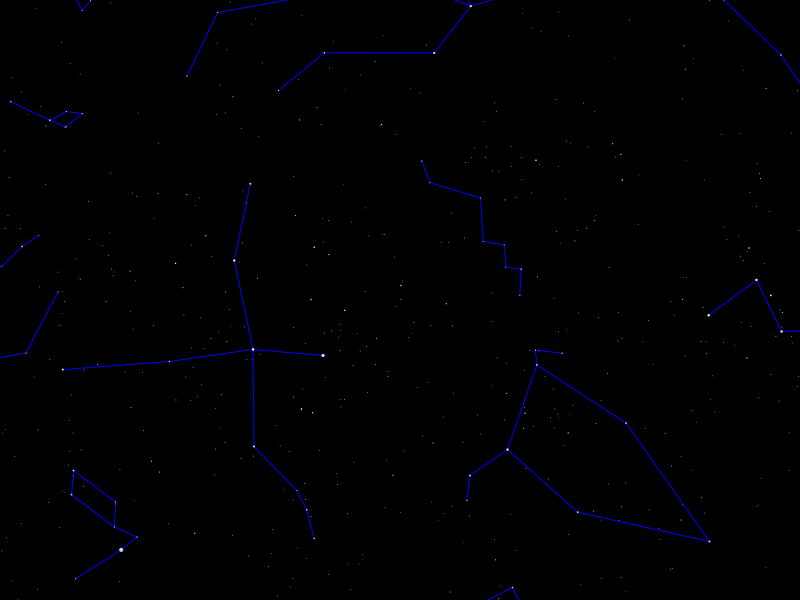
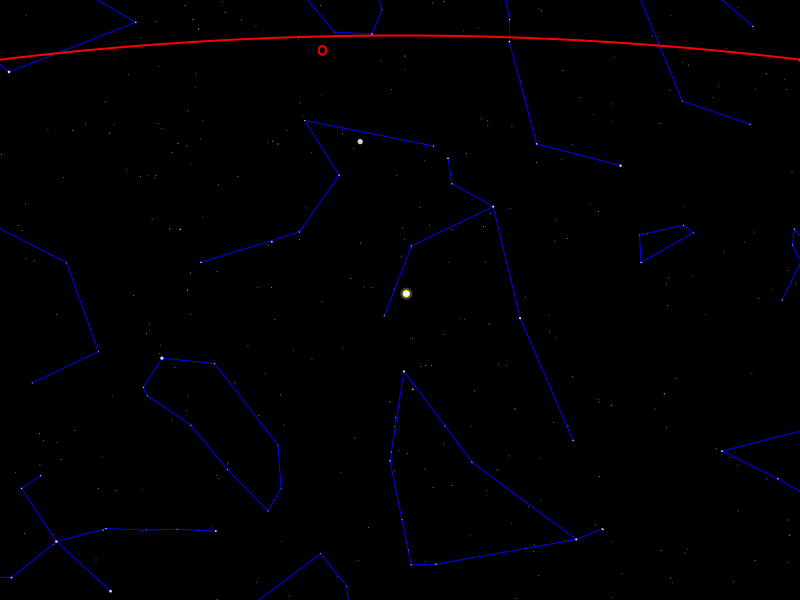
horizon and sun fixes

diff --git a/src/ch/epfl/rigel/gui/SkyCanvasPainter.java b/src/ch/epfl/rigel/gui/SkyCanvasPainter.java
@@ -140,7 +140,7 @@ public class SkyCanvasPainter {
         double radius = diameter/2;
 
         // yellow halo around the sun
-        double positionDifference = (2.2 * diameter - diameter) / 2d;
+        double positionDifference = (1.2 * diameter) / 2d;
         ctx.setFill(Color.YELLOW.deriveColor(0, 0, 1, 0.25));
         ctx.fillOval(pos.getX() - positionDifference - radius, pos.getY() - positionDifference - radius, 2.2 * diameter, 2.2 * diameter);
 
@@ -177,7 +177,7 @@ public class SkyCanvasPainter {
         CartesianCoordinates center = projection.circleCenterForParallel(HorizontalCoordinates.of(0, 0));
         Point2D pos = planeToCanvas.transform(center.x(), center.y());
         double radius = projection.circleRadiusForParallel(HorizontalCoordinates.of(0, 0));
-        double transformedRadius = planeToCanvas.deltaTransform(radius, 0).getX();
+        double transformedRadius = planeToCanvas.deltaTransform(radius, 0).magnitude();
 
         ctx.strokeOval(pos.getX() - transformedRadius, pos.getY() - transformedRadius, transformedRadius * 2, transformedRadius * 2);
     }
@@ -194,8 +194,8 @@ public class SkyCanvasPainter {
         ctx.setTextBaseline(VPos.TOP);
 
         for (CardinalPoint cardinal : CardinalPoint.values()) {
-            CartesianCoordinates card = projection.apply(HorizontalCoordinates.ofDeg(cardinal.getAz(), -0.5));
-            Point2D position = planeToCanvas.transform(card.x(), card.y());
+            CartesianCoordinates cardPos = projection.apply(HorizontalCoordinates.ofDeg(cardinal.getAz(), -0.5));
+            Point2D position = planeToCanvas.transform(cardPos.x(), cardPos.y());
             ctx.strokeText(cardinal.getName(), position.getX(), position.getY());
         }
     }

diff --git a/src/ch/epfl/rigel/gui/MyDrawSky.java b/src/ch/epfl/rigel/gui/MyDrawSky.java
@@ -42,9 +42,9 @@ public final class MyDrawSky extends Application {
                     .loadFrom(hs, HygDatabaseLoader.INSTANCE)
                     .loadFrom(as, AsterismLoader.INSTANCE)
                     .build();
-            ZonedDateTime when = ZonedDateTime.parse("2020-02-17T12:15:00+01:00");
+            ZonedDateTime when = ZonedDateTime.parse("2020-02-17T20:15:00+01:00");
             GeographicCoordinates where = GeographicCoordinates.ofDeg(6.57, 46.52);
-            HorizontalCoordinates projCenter = HorizontalCoordinates.ofDeg(320, 90);
+            HorizontalCoordinates projCenter = HorizontalCoordinates.ofDeg(277, -23);
             StereographicProjection projection = new StereographicProjection(projCenter);
 
             ObservedSky sky = new ObservedSky(when, where, projection, catalogue);
